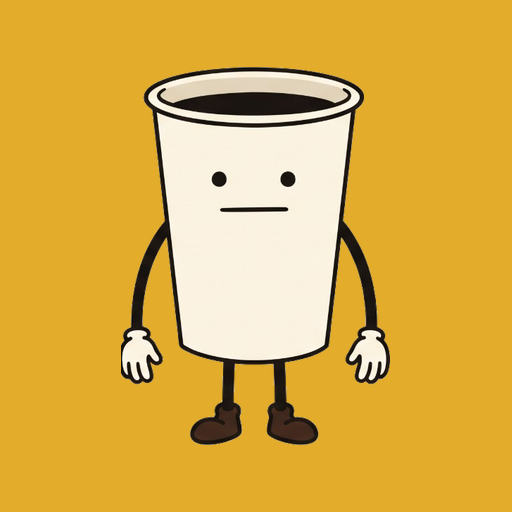
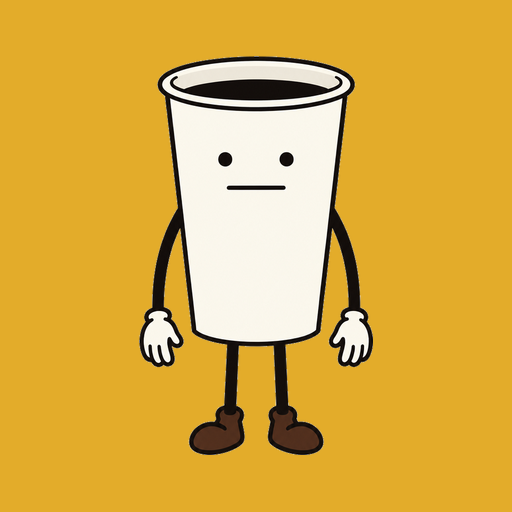
Lead with Drip himself on the hero
The hero led with a lifestyle photo of Drip printed on a mug, and on a
phone the whole first screen was text -- Drip only appeared below the
fold. Replace it with the character on the mustard stage saying "hey
there.", ordered first on mobile, where most visitors arrive from a
social bio. Capitalise the title.

Swap every on-page Drip to the canon drip2 art (the single drip- files
are the retired couch-cold-open pose family) and rotate his emotion per
the character bible: idle in the hero, smile in the character band,
curious on the episode card, confused on the 404. Favicons and the
share card are rebuilt on drip2 too.

Changed region(s): [[0.2188, 0.0938, 0.7812, 0.9062], [0.4062, 0.2812, 0.5938, 0.375], [0.4375, 0.4062, 0.5625, 0.4375]]

diff --git a/index.html b/index.html
@@ -76,20 +76,33 @@
   @media (max-width:760px){.nav{display:none;}}
 
   /* ---------- hero ---------- */
-  .hero{display:grid;grid-template-columns:1fr 1.1fr;border-bottom:1px solid var(--line);}
+  .hero{display:grid;grid-template-columns:1fr 1fr;border-bottom:1px solid var(--line);}
   .hero-copy{padding:72px 48px 72px max(20px, calc((100vw - 1200px)/2 + 20px));
              display:flex;flex-direction:column;justify-content:center;}
   .hero h1{font-family:var(--display);font-weight:900;font-size:clamp(38px,5.2vw,68px);
            line-height:1.0;letter-spacing:-.025em;margin:14px 0 0;}
   .hero p.sub{max-width:42ch;margin:22px 0 0;font-size:17px;color:var(--muted);}
   .hero .ctas{display:flex;gap:12px;flex-wrap:wrap;margin-top:32px;}
-  .hero-img{position:relative;min-height:540px;}
-  .hero-img img{position:absolute;inset:0;width:100%;height:100%;object-fit:cover;
-                object-position:60% 50%;display:block;}
+  /* Drip lives on the mustard stage -- characters never sit on paper. */
+  .hero-stage{background:var(--mustard);display:flex;align-items:flex-end;justify-content:center;
+              min-height:560px;padding:56px 20px 0;overflow:hidden;}
+  .hello{display:flex;flex-direction:column;align-items:center;}
+  .hello img{width:min(280px,58vw);height:auto;display:block;}
+  .bubble{position:relative;margin:0 0 22px;background:var(--paper);border:3px solid var(--ink);
+          border-radius:20px;padding:12px 24px 14px;box-shadow:5px 5px 0 var(--ink);
+          font-family:var(--display);font-weight:900;font-size:clamp(24px,2.8vw,34px);
+          line-height:1;letter-spacing:-.01em;white-space:nowrap;}
+  /* outlined tail: an ink triangle with a smaller paper triangle inside it */
+  .bubble::before,.bubble::after{content:'';position:absolute;left:50%;border-style:solid;
+          border-color:transparent;}
+  .bubble::before{bottom:-19px;margin-left:-13px;border-width:19px 13px 0 13px;border-top-color:var(--ink);}
+  .bubble::after{bottom:-13px;margin-left:-9px;border-width:14px 9px 0 9px;border-top-color:var(--paper);}
   @media (max-width:900px){
     .hero{grid-template-columns:1fr;}
-    .hero-copy{padding:48px 20px 40px;}
-    .hero-img{min-height:0;aspect-ratio:3/2;}
+    /* on a phone Drip comes FIRST: most visitors arrive from a social bio */
+    .hero-stage{order:-1;min-height:0;padding-top:40px;}
+    .hello img{width:min(210px,52vw);}
+    .hero-copy{padding:36px 20px 44px;}
   }
 
   /* ---------- sections ---------- */
@@ -223,15 +236,18 @@
 <section class="hero">
   <div class="hero-copy">
     <p class="eyebrow">Drip the Cup</p>
-    <h1>just a cup of coffee learning about a.i.</h1>
+    <h1>Just a cup of coffee learning about a.i.</h1>
     <p class="sub">turns out i'm also a.i. nobody mentioned it. new episodes when they're ready, and merch when it's ready after that.</p>
     <div class="ctas">
       <a class="btn btn-primary" href="https://www.instagram.com/dripthecup/" target="_blank" rel="noopener">Follow on Instagram</a>
       <a class="btn btn-outline" href="#shop">See the merch</a>
     </div>
   </div>
-  <div class="hero-img">
-    <img src="assets/hero.jpg" width="1800" height="1207" alt="Hands holding a white ceramic mug printed with Drip and the words Bean There, on a sunlit cafe table beside a black bag of Slow Roast coffee.">
+  <div class="hero-stage">
+    <div class="hello">
+      <p class="bubble">hey there.</p>
+      <img src="assets/drip2-idle.png" width="420" height="720" alt="Drip, a tall white paper cup of black coffee with two dot eyes and a flat line mouth, standing on thin black legs in brown boots, saying hey there.">
+    </div>
   </div>
 </section>
 
@@ -314,7 +330,7 @@
     </div>
     <div class="ep">
       <a class="ep-thumb" href="https://www.youtube.com/@dripthecup" target="_blank" rel="noopener" aria-label="Watch on YouTube">
-        <img src="assets/drip-surprised.png" loading="lazy" alt="">
+        <img src="assets/drip2-curious-a.png" loading="lazy" alt="">
         <span class="play" aria-hidden="true"><span>&#9654;</span></span>
       </a>
       <div>
@@ -356,7 +372,7 @@
         <a class="btn btn-outline" href="https://www.tiktok.com/@dripthecup" target="_blank" rel="noopener">TikTok</a>
       </div>
     </div>
-    <img src="assets/drip-idle.png" width="400" height="590" alt="Drip: a tall white paper cup of black coffee with two dot eyes, a flat line mouth, thin black arms and legs, white gloves and brown boots.">
+    <img src="assets/drip2-smile.png" width="420" height="720" alt="Drip: a tall white paper cup of black coffee with two dot eyes, a flat line mouth, thin black arms and legs, white gloves and brown boots.">
   </div>
 </section>
 

diff --git a/404.html b/404.html
@@ -22,7 +22,7 @@
 </head>
 <body>
   <div class="box">
-    <img src="/assets/drip-surprised.png" alt="Drip, looking surprised">
+    <img src="/assets/drip2-confused.png" alt="Drip, looking confused">
     <h1>nothing here.</h1>
     <p>i looked. took me a minute. still nothing.</p>
     <a href="/">back to the front</a>
